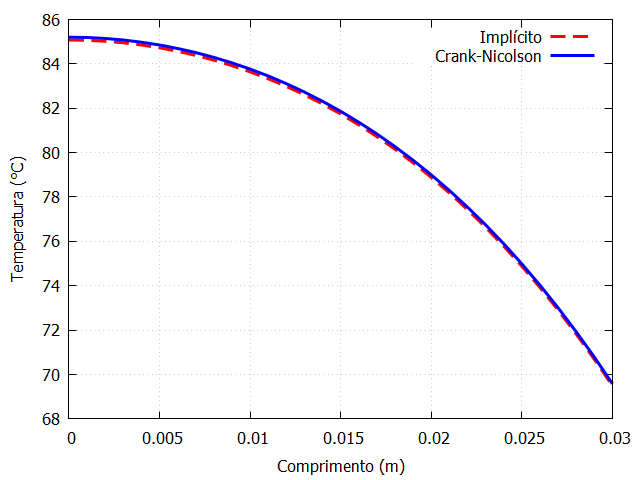
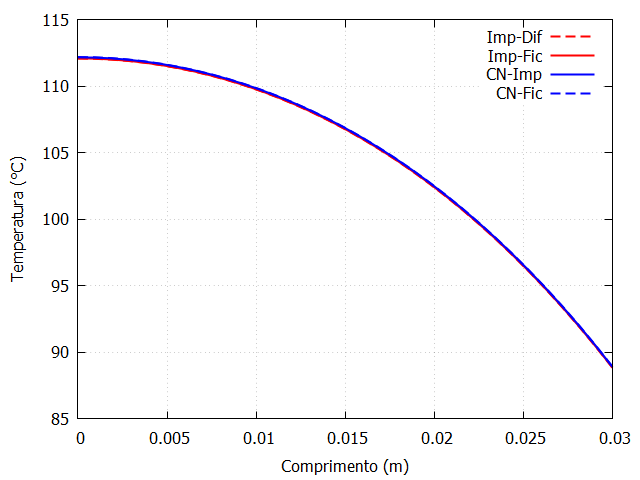
Resultados e correções

diff --git a/Trabalho 1/main.cpp b/Trabalho 1/main.cpp
@@ -21,10 +21,12 @@ void printmatriz(const vector<vector<double>>& A);
 constexpr double L {0.03};                             // comprimento total da placa
 constexpr int N {33};                                  // número de nós da malha
 constexpr double ti {0.0};                             // tempo inicial da simulação
-constexpr double tf {500.0};                           // tempo final da simulação
+constexpr double tf {1000.0};                           // tempo final da simulação
 constexpr auto dx { L / (N - 1)};                      // comprimento do intervalo
-constexpr auto dt {0.01};                      // comprimento do intervalo
-constexpr auto nsteps = static_cast<int>((tf-ti)/dt);  // número de passos de tempo
+constexpr auto nsteps = 65536;                         // número de passos de tempo
+constexpr auto dt {(tf-ti)/nsteps};                    // passo de tempo
+//constexpr auto dt {0.0025};                            // passo de tempo
+//constexpr auto nsteps = static_cast<int>((tf-ti)/dt);  // número de passos de tempo
 
 // Dados do problema:
 constexpr double kappa {0.6};
@@ -60,7 +62,6 @@ int main (int argc, char* argv[]){
 	nicolson_fic(A4, B4, r2);
 
 	// Salvar em um arquivo a comparação entre todos os métodos:
-	
 	vector<double> X(N, 0.0);
 	linspace(X, N, L, 0.0);
 	std::fstream allprint {"dados.dat", std::ios::out|std::ios::trunc};
@@ -69,7 +70,6 @@ int main (int argc, char* argv[]){
 	for (int i = 0; i < N; i++){
 		allprint << X[i] << ' ' << B1[i] << ' ' << B2[i] << ' ' << B3[i] << ' ' << B4[i] << '\n';
 	}
-	
 	
 	//Estudo da convergência em x = L/2:
 	int yy = (N -1)/2;
